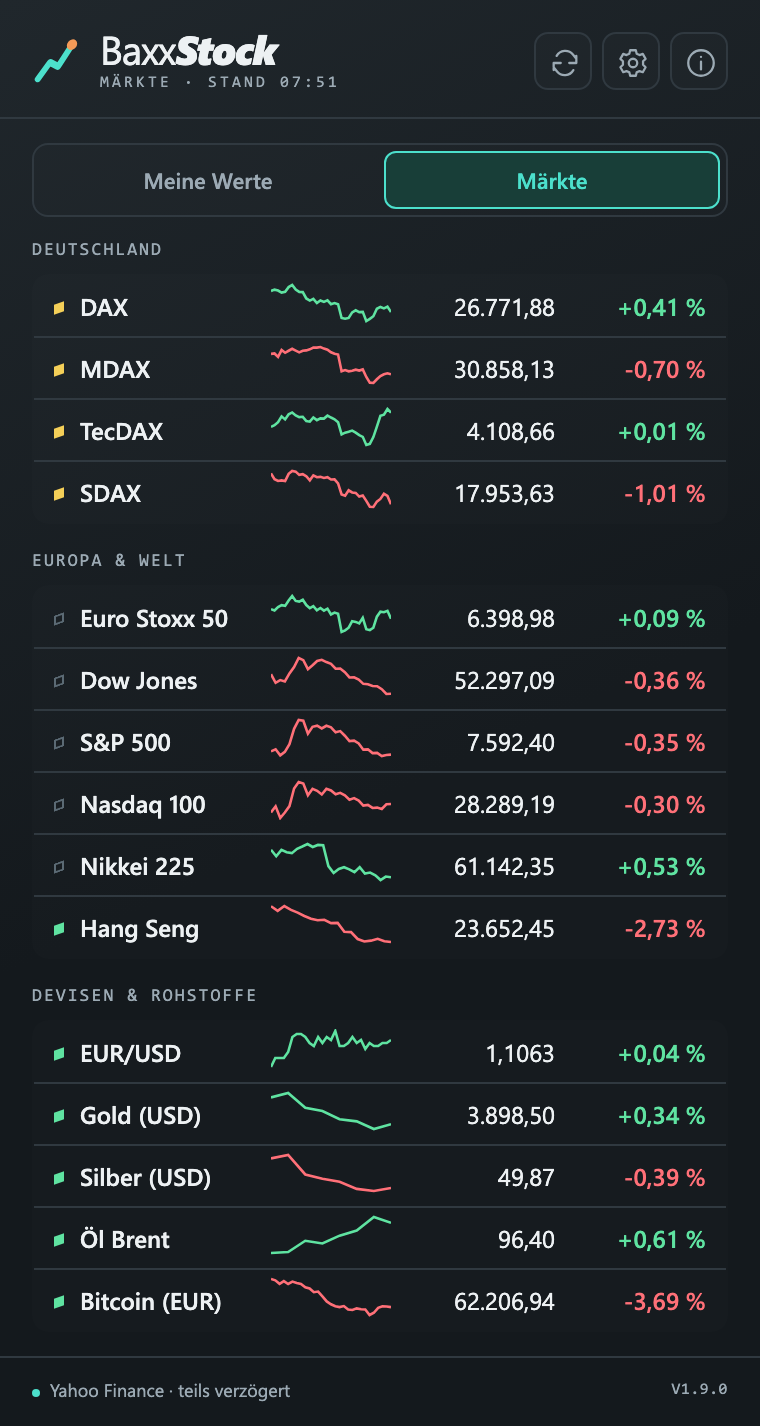
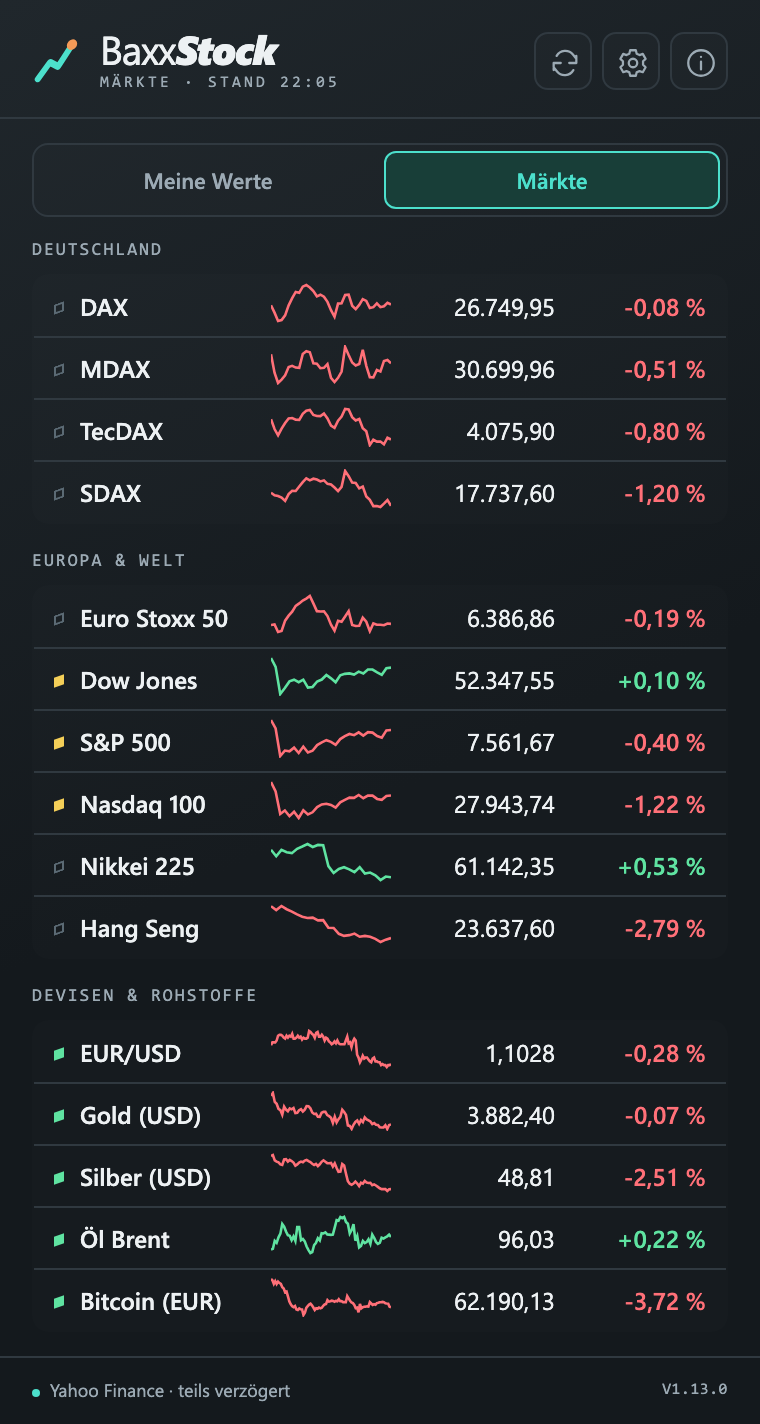
README ueberarbeitet, Screenshots aktualisiert
- Neue Screenshots (Meine Werte, Maerkte) mit echten Kursen vom 13.11.2026 und Demo-Depot
- README: Inhaltsverzeichnis, dynamische Badges, Abschnitte "So wird gerechnet", "Grenzen" und "Entwicklung", Berechtigungstabelle
- Funktionen und Bedienung auf Stand 1.13.0
- Handover aktualisiert

diff --git a/README.md b/README.md
@@ -4,50 +4,55 @@
 
 # BaxxStock
 
-**Börsenkurse im Chrome-Popup – ein Klick, alles Wichtige auf einen Blick.**
+**Börsenkurse und Depot-Tagesentwicklung im Chrome-Popup – ein Klick, alles Wichtige auf einen Blick.**
 
-![Version](https://img.shields.io/badge/Version-1.13.0-4ce0cc)
+[![Version](https://img.shields.io/github/manifest-json/v/baxxus/BaxxStock?color=4ce0cc&label=Version)](manifest.json)
 ![Manifest V3](https://img.shields.io/badge/Chrome-Manifest%20V3-f59a57)
-![Lizenz](https://img.shields.io/badge/Lizenz-Apache%202.0-9caab4)
+[![Lizenz](https://img.shields.io/github/license/baxxus/BaxxStock?color=9caab4&label=Lizenz)](LICENSE)
 
 <br>
 
-<img src="docs/screenshots/meine-werte.png" alt="BaxxStock: Meine Werte" width="330" valign="top">
+<img src="docs/screenshots/meine-werte.png" alt="BaxxStock: Meine Werte mit Depot-Übersicht" width="330" valign="top">
 &nbsp;&nbsp;
 <img src="docs/screenshots/maerkte.png" alt="BaxxStock: Märkte" width="330" valign="top">
 
-<sub>Beispielansicht mit Kursen vom Morgen des 13.11.2026</sub>
+<sub>Echte Yahoo-Kurse vom 13.11.2026, 22 Uhr · das Depot links ist ein Demo-Depot</sub>
 
 </div>
 
+## Inhalt
+
+[Funktionen](#funktionen) · [Installation](#installation) · [Bedienung](#bedienung) · [So wird gerechnet](#so-wird-gerechnet) · [Datenschutz](#datenschutz) · [Grenzen](#grenzen) · [Entwicklung](#entwicklung) · [Lizenz](#lizenz)
+
 ## Was ist BaxxStock?
 
-BaxxStock ist eine schlanke Chrome-Erweiterung. Ein Klick auf das Icon zeigt Indizes, Devisen, Rohstoffe und deine eigenen Aktien und ETFs – mit Kurs, Tagesveränderung und Mini-Kurve. Ohne Konto, ohne API-Key, ohne Tracking.
+BaxxStock ist eine schlanke Chrome-Erweiterung. Ein Klick auf das Icon zeigt Indizes, Devisen, Rohstoffe und dein eigenes Depot – mit Kurs, Tagesveränderung und Mini-Kurve. Ein Badge am Icon verrät schon vorher, ob dein Depot heute im Plus oder Minus liegt.
+
+Ohne Konto, ohne API-Key, ohne Tracking, ohne eigenen Server.
 
 ## Funktionen
+
+**Meine Werte**
+- **Depot-Übersicht:** Gesamtwert, Veränderung zum Vortagesschluss in € und % sowie Aufteilung nach Einzelaktien, ETFs und Sonstige
+- **Je Position:** Wert, Bestand, Kurs, Mini-Kurve und heutige Veränderung in € und %
+- **Gruppen** (Einzelaktien, ETFs, Sonstige) einklappbar, die Gruppensumme bleibt sichtbar
+- **Sortierung** nach Name, Wert, Veränderung in € oder in %, jeweils auf- und absteigend
+- **Depot-Import:** Ansicht der Bank in die Textarea einfügen – die Symbole werden über die ISIN gefunden
+- **Icon-Badge:** grün ▲ im Plus, rot ▼ im Minus; der Tooltip nennt die Veränderung in % (Update im Hintergrund alle 15 Minuten)
 
 **Märkte**
 - Indizes: DAX, MDAX, TecDAX, SDAX, Euro Stoxx 50, Dow Jones, S&P 500, Nasdaq 100, Nikkei 225, Hang Seng
 - Devisen & Rohstoffe: EUR/USD, Gold, Silber, Brent, Bitcoin
 - Jeden Standard-Wert einzeln ein- und ausblendbar
 
-**Meine Werte**
-- Eigene Watchlist mit beliebigen Yahoo-Symbolen (`SAP.DE`, `AAPL`, `IWDA.AS` …)
-- Depot-Übersicht: Gesamtwert, Veränderung zum Vortagesschluss (€ und %) und Aufteilung nach Einzelaktien, ETFs und Sonstige
-- Je Position Wert, Bestand, Kurs und heutige Veränderung in € und %
-- Gruppen einklappbar, Gruppensumme bleibt sichtbar
-- Sortierbar nach Name, Wert oder heutiger Veränderung (in € oder %), auf- und absteigend (Einstellungen werden gespeichert)
-- Depot-Import: Ansicht der Bank in die Textarea einfügen – Symbole werden über die ISIN gefunden
-- Am Erweiterungs-Icon zeigt ein Badge unten rechts die Richtung: grün ▲ im Plus, rot ▼ im Minus, Tooltip mit der Veränderung in % (Hintergrund-Update alle 15 Minuten)
-
-**Anzeige**
-- Kurs, Veränderung zum Vortag in % und Mini-Kursverlauf des Handelstages
-- Statuspunkt pro Wert: handelt, vor-/nachbörslich oder geschlossen (Hover zeigt Datum und Uhrzeit des Kurses)
-- Dark Mode, Info-Bereich mit Erklärungen, Einstellungen über Chrome Sync
+**Allgemein**
+- Statuspunkt je Wert: handelt, vor-/nachbörslich oder geschlossen (der Hover zeigt Datum und Uhrzeit des Kurses)
+- Dark Mode, Info-Bereich mit Erklärungen
+- Watchlist und Einstellungen über Chrome Sync, Bestände und Sortierung nur lokal
 
 ## Installation
 
-Die Erweiterung ist (noch) nicht im Chrome Web Store und wird als entpackte Erweiterung geladen:
+Die Erweiterung ist (noch) nicht im Chrome Web Store und wird als entpackte Erweiterung geladen. Voraussetzung ist ein Chromium-Browser mit Manifest V3 (Chrome, Edge, Brave …).
 
 1. Repository klonen oder als ZIP herunterladen und entpacken
    ```bash
@@ -56,6 +61,8 @@ Die Erweiterung ist (noch) nicht im Chrome Web Store und wird als entpackte Erwe
 2. In Chrome `chrome://extensions` öffnen und oben rechts den **Entwicklermodus** aktivieren
 3. **Entpackte Erweiterung laden** wählen und den Projektordner auswählen
 4. Das Icon über das Puzzle-Symbol in der Toolbar anheften
+
+**Aktualisieren:** Repository mit `git pull` aktualisieren und die Erweiterung in `chrome://extensions` über das Neu-laden-Symbol neu laden. Bei neuen Berechtigungen fragt Chrome einmal nach.
 
 ## Bedienung
 
@@ -81,29 +88,52 @@ Unterstützt werden zwei Formate:
   SAP SE;DE0007164600;10;1.234,56
   ```
 
+Erkannt werden Positionen anhand der ISIN (mit Prüfziffer). Mehrfach vorkommende ISINs werden aufsummiert. ISINs, zu denen Yahoo kein Symbol findet, meldet der Import und übernimmt sie nicht; Werte ohne Kurs stehen mit „n/v“ in der Liste.
+
+## So wird gerechnet
+
+Die Depot-Übersicht vergleicht den Wert deiner Positionen heute mit dem Vortagesschluss (derselbe Bezug wie die Prozentangabe je Wert):
+
+- **Mit Stückzahl:** Stück × Kurs. Fremdwährungen werden mit dem aktuellen Yahoo-Wechselkurs in Euro umgerechnet, Pence-Kurse (`GBp`) als Pfund.
+- **Plausibilitätsprüfung:** Weicht „Stück × Kurs“ um mehr als den Faktor 2 vom importierten Wert ab (z. B. bei Anleihen, die in Prozent notieren), gilt der importierte Wert; die Position ist mit ⚠ markiert.
+- **Nur mit Wert:** Der Wert gilt als aktuell, der Vortag ergibt sich aus der Tagesveränderung des Kurses.
+- **Ohne Kurs oder Bestand:** Die Position wird nicht mitgerechnet; die Übersicht nennt dann „x von y Positionen“.
+
+Bei geschlossener Börse ist es die Veränderung des letzten Handelstages. Es handelt sich um eine Näherung ohne Gebühren, Steuern oder Kauf-/Verkaufspreise – keine Performance-Rechnung.
+
 ## Datenschutz
 
-- Es gibt keinen eigenen Server – das Popup spricht direkt mit Yahoo Finance
-- Beim Import werden **nur die ISINs** an Yahoo gesendet (Symbolsuche)
-- Stück und Wert deiner Positionen bleiben **lokal im Browser** und werden nicht über Chrome Sync geteilt
-- Berechtigungen: `storage`, `alarms` (Hintergrund-Update des Icons) sowie Zugriff auf `query1`/`query2.finance.yahoo.com`
+- Es gibt keinen eigenen Server – Popup und Hintergrund-Prozess sprechen direkt mit Yahoo Finance
+- Dorthin gehen nur Symbole (Kursabfrage) und beim Import die ISINs (Symbolsuche) – **nie Stückzahlen oder Werte**
+- Stückzahlen und Werte deiner Positionen sowie Sortierung und Tabauswahl bleiben **lokal im Browser** und werden nicht über Chrome Sync geteilt
+- Die Watchlist selbst (Symbole und Namen) liegt in Chrome Sync
 
-## Datenquelle & Hinweis
+| Berechtigung | Wofür |
+|---|---|
+| `storage` | Watchlist, Einstellungen, Positionen, Zwischenspeicher |
+| `alarms` | Aktualisierung des Icon-Badges im Hintergrund alle 15 Minuten |
+| `query1`/`query2.finance.yahoo.com` | Kursabfragen und ISIN-Suche |
 
-Kurse stammen von Yahoo Finance (inoffizielle Schnittstelle, kein API-Key nötig) und können je nach Börse rund 15 Minuten verzögert sein. Da die Schnittstelle nicht offiziell ist, kann sie sich jederzeit ändern. **Keine Anlageberatung.**
+## Grenzen
 
-## Projektaufbau
+- Yahoo Finance ist eine **inoffizielle Schnittstelle** ohne Zusicherung; sie kann sich ändern oder bei vielen Abfragen drosseln. Kurse können je nach Börse rund 15 Minuten verzögert sein.
+- Anleihen und manche Fonds liefert Yahoo nicht oder mit unpassenden Einheiten; sie stehen unter „Sonstige“.
+- Das Icon-Badge wird beim Start von Chrome, alle 15 Minuten und beim Öffnen des Popups aktualisiert – bei geschlossenem Chrome gibt es keine Aktualisierung.
+- **Keine Anlageberatung.**
+
+## Entwicklung
+
+Es gibt keinen Build-Schritt und keine Abhängigkeiten – Dateien ändern, in `chrome://extensions` neu laden, fertig.
 
 | Datei | Aufgabe |
 |---|---|
 | `manifest.json` | Chrome-Manifest (V3) |
 | `popup.html` / `popup.css` | Oberfläche des Popups |
-| `popup.js` | Darstellung, Einstellungen |
+| `popup.js` | Darstellung, Sortierung, Einstellungen |
 | `core.js` | Kursabruf, Tagesentwicklung, Icon-Badge (gemeinsam für Popup und Service Worker) |
 | `background.js` | Service Worker: aktualisiert das Icon-Badge im Hintergrund |
-| `import.js` | Parser für den Listen-Import |
-
-Es gibt keinen Build-Schritt und keine Abhängigkeiten – Dateien ändern, in `chrome://extensions` neu laden, fertig.
+| `import.js` | Parser für den Listen-Import (läuft auch unter Node: `require("./import.js").parseDepotList`) |
+| `docs/` | Screenshots für dieses README und `handover.md` mit dem aktuellen Projektstand |
 
 ## Lizenz
 

diff --git a/docs/handover.md b/docs/handover.md
@@ -2,9 +2,11 @@
 Stand: 2026-11-13
 
 ## Aktueller Stand
-Chrome-Erweiterung (MV3) mit Märkte-Übersicht und eigener Watchlist im Popup, Version 1.13.0. Tab „Meine Werte“ neu gestaltet: Depot-Übersicht (Wert, Tagesveränderung, Aufteilung), zweizeilige Positionszeilen, einklappbare Gruppen mit Summen, Sortierung Name/Wert/Heute €/Heute %. Icon-Badge (▲/▼) per Service Worker alle 15 min. Branch `main`, 1.13.0 nicht committet.
+Chrome-Erweiterung (MV3) mit Märkte-Übersicht und eigener Watchlist im Popup, Version 1.13.0. Tab „Meine Werte“ neu gestaltet: Depot-Übersicht (Wert, Tagesveränderung, Aufteilung), zweizeilige Positionszeilen, einklappbare Gruppen mit Summen, Sortierung Name/Wert/Heute €/Heute %. Icon-Badge (▲/▼) per Service Worker alle 15 min. Branch `main`, README und Screenshots aktualisiert (nicht committet).
 
 ## Zuletzt erledigt
+- README überarbeitet: Inhaltsverzeichnis, dynamische Badges (Version aus `manifest.json`, Lizenz), Abschnitte „So wird gerechnet“, „Grenzen“, „Entwicklung“, Berechtigungstabelle, Update-Hinweis
+- Screenshots `docs/screenshots/meine-werte.png` und `maerkte.png` neu: echte Yahoo-Kurse vom 13.11.2026, 22 Uhr, per headless Chrome mit gemocktem Chrome-API; Depot links ist ein Demo-Depot (7 Positionen), keine echten Bestände
 - Summary-Karte samt „Details je Position“ durch Depot-Übersicht ersetzt; Positionswert und Tagesveränderung (€, %) stehen jetzt direkt in jeder Zeile (`posRowHtml`)
 - Gruppen (`GROUPS` in `popup.js`) einklappbar, Zustand in `chrome.storage.local` (`collapsed`); Gruppenzeile zeigt Summe und Tages-%
 - Sortierung: „Heute €“ (Δ € je Position) und „Heute %“ (Kursveränderung in %); ohne Positionen nur Name und „Heute %“, eine gespeicherte €-/Wert-Sortierung fällt dann auf % zurück. Sortieren/Einklappen zeichnet aus dem gemerkten Stand (`last`) neu, ohne Kurse neu zu laden
@@ -15,7 +17,8 @@ Chrome-Erweiterung (MV3) mit Märkte-Übersicht und eigener Watchlist im Popup, 
 - [ ] In echtem Chrome mit echtem Depot prüfen: neue Ansicht, Badge, Alarm im Hintergrund
 - [ ] Optional: Anleihen sauber rechnen (Nominal × Kurs / 100), statt auf den Importwert auszuweichen
 - [ ] Import mit weiteren Depotansichten testen und Parser nachschärfen
-- [ ] Screenshots in `docs/screenshots/` zeigen noch die alte Ansicht
+- [ ] GitHub-Repo-Beschreibung ist abgeschnitten („… auf die Märkte:“) – in den Repo-Einstellungen vervollständigen
+- [ ] Screenshots bei größeren UI-Änderungen neu erzeugen
 
 ## Nächster Schritt
 Erweiterung in Chrome neu laden und den Tab „Meine Werte“ mit dem echten Depot durchsehen.
